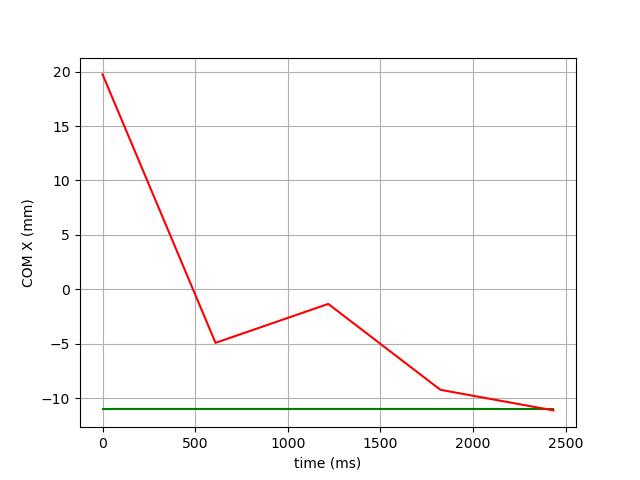
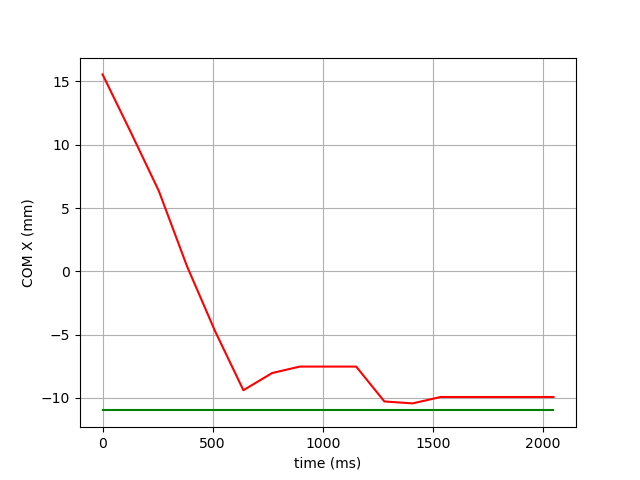
tuning

diff --git a/scripts/main.py b/scripts/main.py
@@ -15,6 +15,7 @@ import numpy as np
 import scipy.linalg
 from scipy import signal
 import matplotlib.pyplot as plt
+from openpyxl import load_workbook
 
 # from listener import data
 if os.name == 'nt':
@@ -977,6 +978,8 @@ allCOMx=[]
 allCOMy=[]
 allCOMz=[]
 allTime=[]
+QSave=["Q"]
+KSave=["K"]
 
 invers(robot,dxl,'ki',0,0,20,1)
 invers(robot,dxl,'ka',0,0,20,1)
@@ -994,7 +997,7 @@ comDef["x"],comDef["y"],comDef["z"],comDef["zt"]=resCOM[0],resCOM[1],resCOM[2],r
 print("comDef",comDef)
 wait(0.1)
 
-tawal=-7 #-13
+tawal=-6 #-7
 dxl[15].moveSync(t16def+tawal,1) #servo 16
 dxl[14].moveSync(t15def-tawal,1) #servo 15
 dxl[11].moveSync(t12def-tawal,1) #servo 12
@@ -1036,7 +1039,7 @@ while(1):
     t1=time.time()
     cntTransPitch(robot,dxl,base,K,t)
     robot.syncWrite()
-    wait(0.5)
+    # wait(0.5)
     # cntTransPitch(robot,dxl,base,K,t,condition='normal')
 
     allPttrnXt.append(pttrn["Xt"])
@@ -1048,11 +1051,20 @@ while(1):
     allTime.append(t/1000)
     t2=time.time()
     print("tot",t2-t1)
-    wait(0.03)
+    wait(0.05)
 
     if t/1000000>=tsup:
         break
-    
+
+QSave.append(Q[0,0])
+QSave.append(Q[1,1])
+QSave.append(Q[2,2])
+QSave.append(Q[3,3])
+KSave.append(K[0,0])
+KSave.append(K[0,1])
+KSave.append(K[1,2])
+KSave.append(K[1,3])
+
 #masukin semua data ke excel
 df = pd.DataFrame({'waktu':allTime,'Xt':allPttrnXt,'Yt':allPttrnYt,'Zt':allPttrnZt,'COMx':allCOMx,'COMy':allCOMy,'COMz':allCOMz})
 filename="tuning COM translasi pitch"
@@ -1070,6 +1082,17 @@ plt.xlabel("time (ms)")
 plt.ylabel("COM X (mm)")
 plt.show()
 plt.savefig('./src/program/data/data translasi pitch.png')
+
+wb=load_workbook(loc)
+sh=wb.worksheets[0]
+
+for i in range(len(QSave)):
+    sh.cell(row=i+1,column=9,value=QSave[i])
+
+for i in range(len(KSave)):
+    sh.cell(row=i+1,column=10,value=KSave[i])
+
+wb.save(loc)
 
 # # ==============================================
 ##------------------------------translasi roll kaki 1--------

diff --git a/scripts/rosCall.py b/scripts/rosCall.py
@@ -1200,8 +1200,8 @@ def tuningLQRdiskrit(condition):
     elif condition=='translation pitch':
         Q = np.array([[1,0,0,0],
                     [0,1,0,0],
-                    [0,0,230,0],
-                    [0,0,0,0.0001]])
+                    [0,0,33.998667,0],
+                    [0,0,0,0.3256]])
 
     elif condition=='translation pitch 1 kaki':
         Q = np.array([[1000,0,0,0],
@@ -1401,7 +1401,7 @@ def invers_translasi_pitch(robot,dxl,base,x,y,z,times,v16,v15):
 
     dxl[6].moveSync(t7,times,dxl[6].prevGoal,read=0)
     dxl[9].moveSync(t10,times,dxl[9].prevGoal,read=0)
-    dxl[11].moveSync(t12,times,dxl[11].prevGoal,read=0) #kalau pitch 1 kaki ini aja yg nyala
+    dxl[11].moveSync(t12,times,dxl[11].prevGoal,read=0) #pake biasa kalau pitch 1 kaki ini aja yg nyala
     dxl[13].moveSync(t14,times,dxl[13].prevGoal,read=0)
     dxl[15].moveSync(invPttrn["t16"],v16,dxl[15].prevGoal,time_type='omega',read=0) #kalau pitch 1 kaki ini aja yg nyala
     dxl[17].moveSync(t18,times,dxl[17].prevGoal,read=0)
